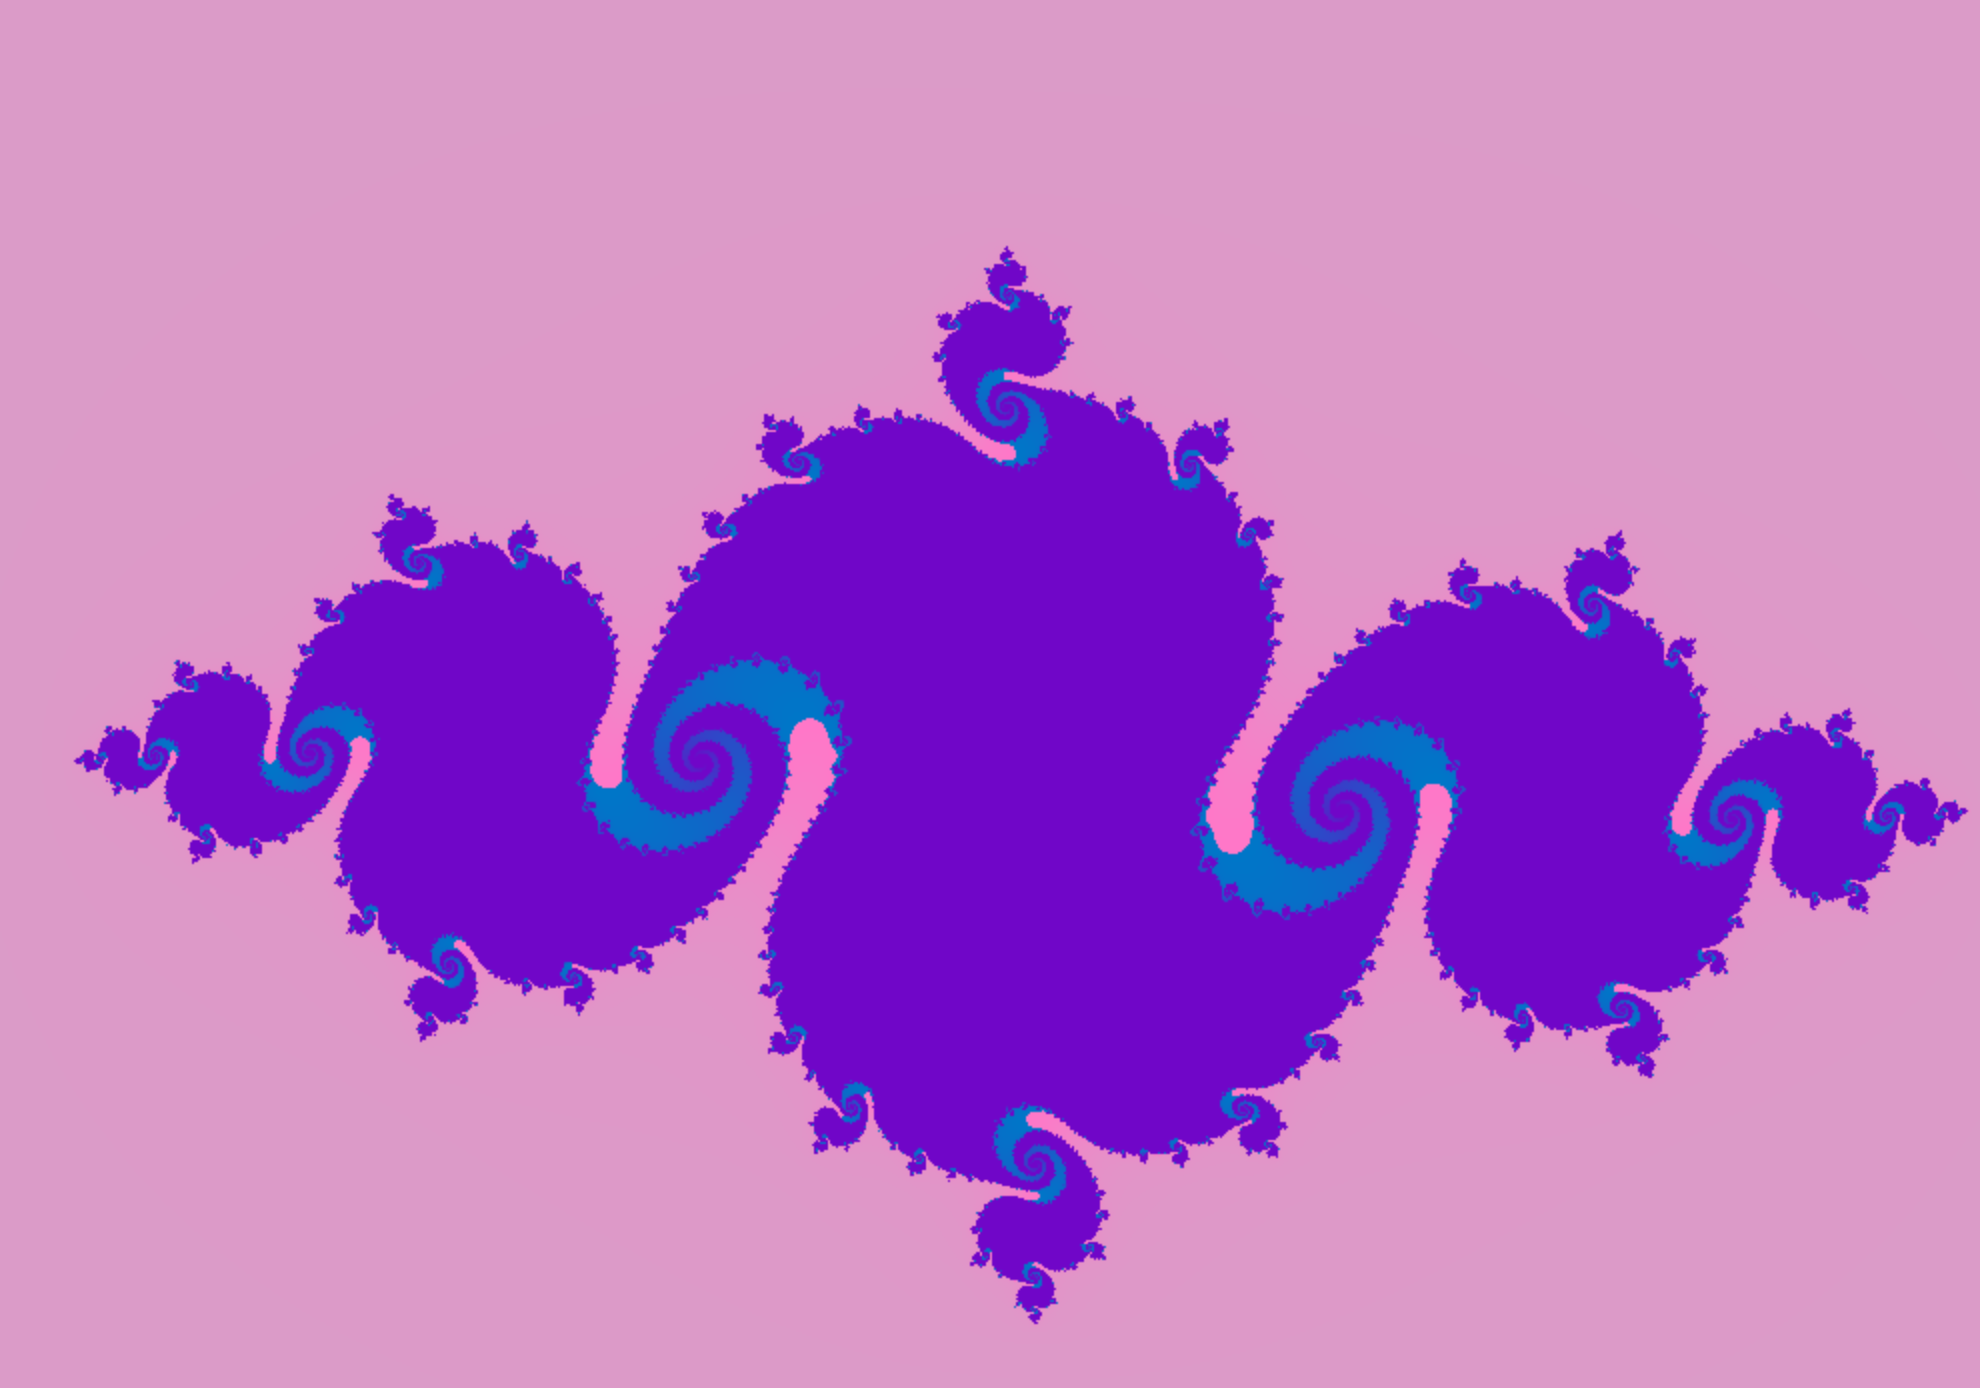
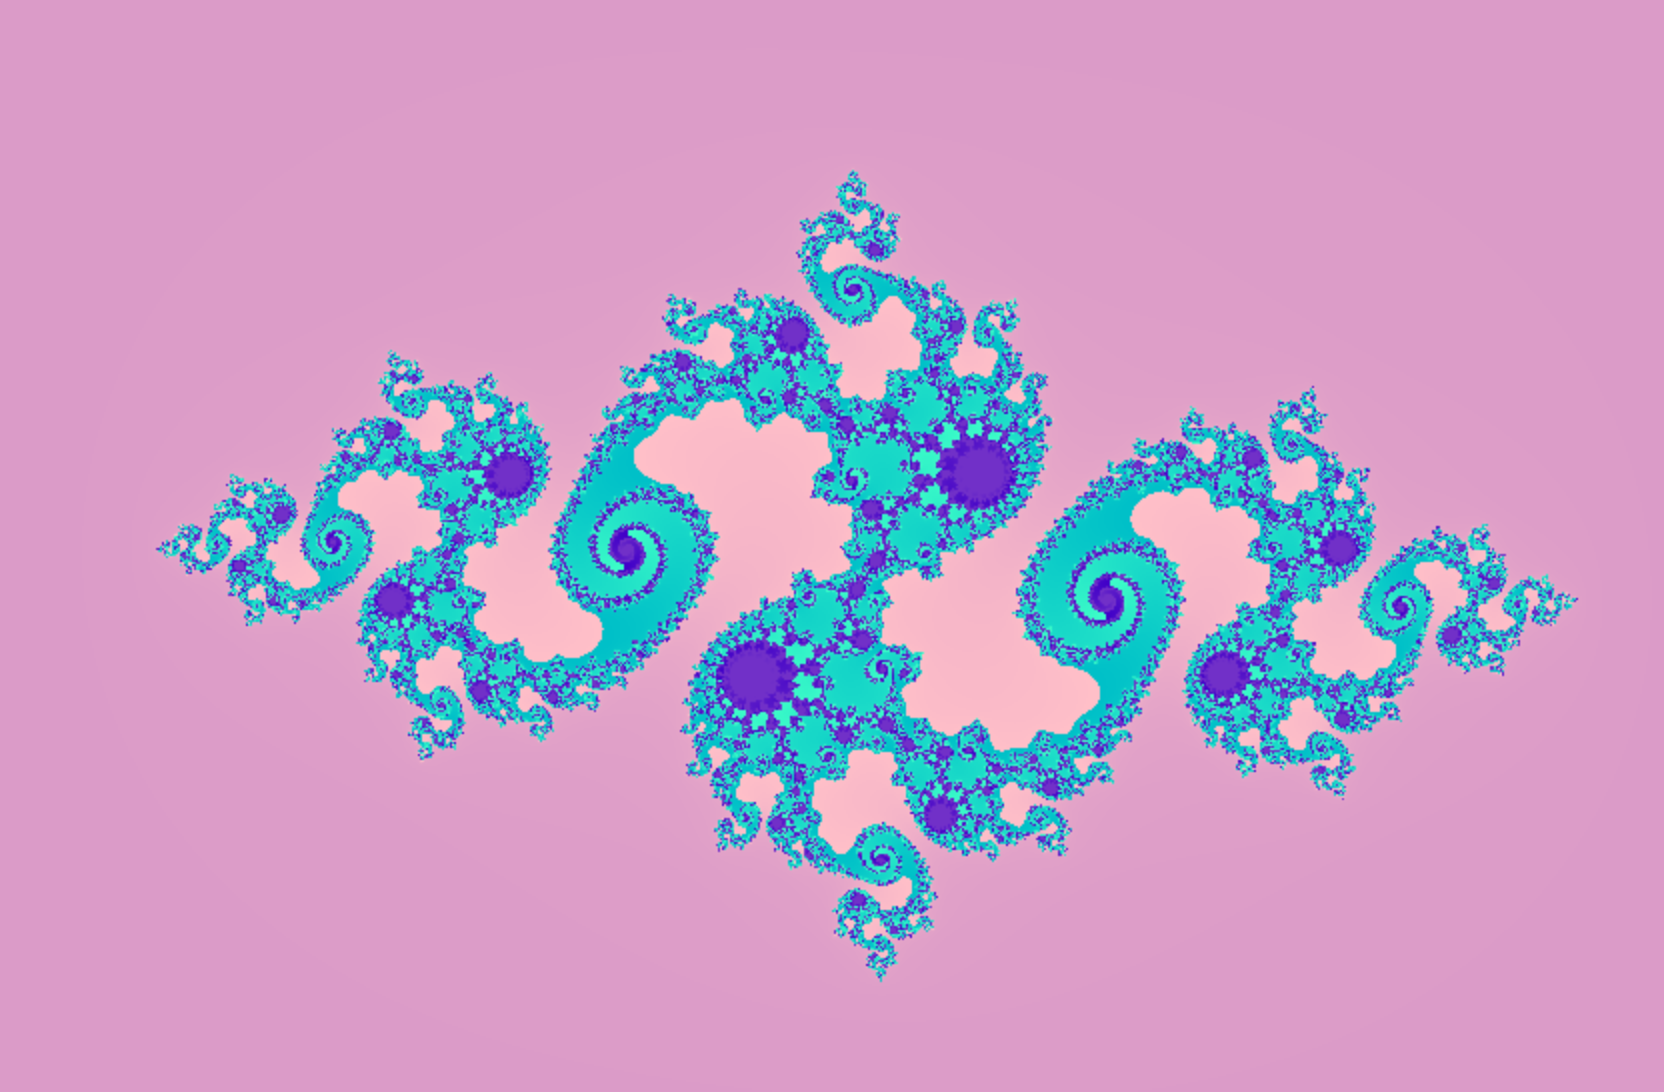
some minor color adjustment and added possibility to move julia

diff --git a/fractol/srcs/fractol_utils.c b/fractol/srcs/fractol_utils.c
@@ -12,33 +12,34 @@
 
 #include "../include/fractol.h"
 
-int	encode_rgb(int i, int iter, int *setting)
-{
-	if (setting[1] == 1)
-		return (((1433 + i) % 250) << 16 | (190 - i) << 8 | 80 * (i < iter));
-	else if (setting[1] == 2)
-		return (((1499 + i) % 256) << 16 | (155 - i) << 8 | 200 * (i < iter));
-	else if (setting[1] == 3)
-		return (((133 + i) % 150) << 16 | (235 - i) << 8 | 170 * (i < iter));
-	else
-		exit(EXIT_FAILURE);
-}
-
-// for i more than 150
+// for i less than 150
 // int	encode_rgb(int i, int iter, int *setting)
 // {
 // 	if (setting[1] == 1)
-// 		return (((1433 + i) % 250) << 16 | 190 << 8
-// 			| 80 * (i < iter));
+// 		return (((1433 + i) % 250) << 16 | (190 - i) << 8 | 80 * (i < iter));
 // 	else if (setting[1] == 2)
-// 		return (((1499 + i) % 256) << 16 | 155 << 8
-// 			| 200 * (i < iter));
+// 		return (((1499 + i) % 256) << 16 | (155 - i) << 8 | 200 * (i < iter));
 // 	else if (setting[1] == 3)
-// 		return (((133 + i) % 150) << 16 | 235 << 8
-// 			| 170 * (i < iter));
+// 		return (((133 + i) % 150) << 16 | (235 - i) << 8 | 170 * (i < iter));
 // 	else
 // 		exit(EXIT_FAILURE);
 // }
+
+
+int	encode_rgb(int i, int iter, int *setting)
+{
+	if (setting[1] == 1)
+		return (((1433 + i) % 250) << 16 | (190 + i) << 8
+			| 80 * (i < iter));
+	else if (setting[1] == 2)
+		return (((1499 + i) % 256) << 16 | (155 + i) << 8
+			| 200 * (i < iter));
+	else if (setting[1] == 3)
+		return (((133 + i) % 150) << 16 | (235 + i) << 8
+			| 170 * (i < iter));
+	else
+		exit(EXIT_FAILURE);
+}
 
 int	ft_mini_atoi(const char *str)
 {

diff --git a/fractol/srcs/hooks.c b/fractol/srcs/hooks.c
@@ -6,7 +6,7 @@
 /*   By: abuzdin <abuzdin@student.42.fr>            +#+  +:+       +#+        */
 /*                                                +#+#+#+#+#+   +#+           */
 /*   Created: 2022/03/29 11:55:14 by abuzdin           #+#    #+#             */
-/*   Updated: 2022/04/04 14:43:21 by abuzdin          ###   ########.fr       */
+/*   Updated: 2022/04/05 16:11:16 by abuzdin          ###   ########.fr       */
 /*                                                                            */
 /* ************************************************************************** */
 
@@ -35,7 +35,35 @@ int	key_hook(int keycode, t_data *data)
 		data->set.zoom *= 0.9;
 	else
 		ft_printf("Key %d was pressed!\n", keycode);
+	move_julia(keycode, data);
 	render(data);
+	return (0);
+}
+
+int	move_julia(int keycode, t_data *data)
+{
+	if (data->setting[0] != 2)
+		return (0);
+	if (keycode == 12)
+	{
+		data->set.pi -= 0.001; 
+		data->set.pr -= 0.001; 
+	}
+	else if (keycode == 13)
+	{
+		data->set.pi += 0.001; 
+		data->set.pr += 0.001; 
+	}
+	else if (keycode == 0)
+	{
+		data->set.pi -= 0.01; 
+		data->set.pr -= 0.01; 
+	}
+	else if (keycode == 1)
+	{
+		data->set.pi += 0.01; 
+		data->set.pr += 0.01; 
+	}
 	return (0);
 }
 

diff --git a/fractol/include/fractol.h b/fractol/include/fractol.h
@@ -6,7 +6,7 @@
 /*   By: abuzdin <abuzdin@student.42.fr>            +#+  +:+       +#+        */
 /*                                                +#+#+#+#+#+   +#+           */
 /*   Created: 2022/03/29 14:43:46 by abuzdin           #+#    #+#             */
-/*   Updated: 2022/04/04 13:55:28 by abuzdin          ###   ########.fr       */
+/*   Updated: 2022/04/05 16:09:11 by abuzdin          ###   ########.fr       */
 /*                                                                            */
 /* ************************************************************************** */
 
@@ -72,6 +72,7 @@ void	my_mlx_pixel_put(t_img *img, int x, int y, int color);
 // hooks
 int		key_hook(int keycode, t_data *data);
 int		mouse_hook(int keycode, int x, int y, t_data *data);
+int	move_julia(int keycode, t_data *data);
 
 // set initialization
 void	init_mb(t_data *data);

diff --git a/fractol/srcs/set_init.c b/fractol/srcs/set_init.c
@@ -6,7 +6,7 @@
 /*   By: abuzdin <abuzdin@student.42.fr>            +#+  +:+       +#+        */
 /*                                                +#+#+#+#+#+   +#+           */
 /*   Created: 2022/03/29 11:57:45 by abuzdin           #+#    #+#             */
-/*   Updated: 2022/03/31 09:22:11 by abuzdin          ###   ########.fr       */
+/*   Updated: 2022/04/05 16:22:33 by abuzdin          ###   ########.fr       */
 /*                                                                            */
 /* ************************************************************************** */
 
@@ -36,8 +36,8 @@ void	init_julia(t_data *data)
 	}
 	else if (data->setting[2] == 3)
 	{
-		data->set.pr = -0.77;
-		data->set.pi = -0.08;
+		data->set.pr = -0.778;
+		data->set.pi = -0.116;
 	}
 }
 

diff --git a/fractol/README.md b/fractol/README.md
@@ -21,6 +21,15 @@
 >• The use of images of the minilibX is strongly recommended.
 >
 
+## **How to use**
+* The program works only on Mac OS. Linux version require some minor modifications
+* Execute in the following way:
+> ./fractol <set name: Mandelbrot, Julia, Ship> <number for color from 1 to 3> <number for c; from 1 to 3, works only for Julia Set>
+* Move position with arrows, left and right mouse buttons
+* Zome with _-_ and _=_ or mouse wheel
+* For Julia Set it is possible to change value for c with _q_ and _w_ or _a_ and _s_
+* If you want to run more than 150 iteration, you should change the function for color (it is under comments inside fractol_utils.c)
+
 ## **Testing**
 The project was tested by myself and peers
 
